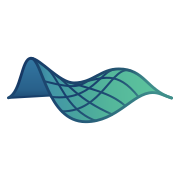
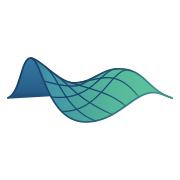
tools: the launcher tiles stop wearing tab-sized strokes
favicon.svg boosts stroke widths so the mark survives 16 px, and the
docstring has always said that boost is "for 16-48 px legibility only".
The raster loop did not read it: all six PNGs came from the boosted
drawing, so the 180 px apple-touch icon and the 192/512 launcher tiles
carried stroke weights meant for a tab favicon — a visibly heavier mark
than the one on every other surface, at the two sizes seen largest.

The size table now names its source per entry. Below the boosted range,
the boosted drawing; above it, the display mark. Three files move, about
3% less ink each; favicon.ico still comes from the boosted 48 px, which
is what it is for.

Verified byte-for-byte that this toolchain reproduces the committed kit
before touching it, so the diff is the three intended tiles and nothing
else.

diff --git a/tools/gen_logo.py b/tools/gen_logo.py
@@ -38,9 +38,12 @@ A's apex (same point, both exactly 0 deg) and its last IS A's tail tip with
 the tied tangent - the strokes genuinely divide and remerge.
 
 One drawing, two optical sizes: favicon.svg boosts stroke widths for 16-48 px
-legibility only. logo-header.svg is the white mono line-art for the docs
-header bar. Requires inkscape (text->path + PNG export; authored with
-Inkscape 1.4.4), Pillow (favicon.ico) and real Arial Bold for the wordmark.
+legibility only, and only the 16/32/48 rasters come from it - the 180 px
+apple-touch icon and the 192/512 launcher tiles rasterize from the display
+mark, or they wear tab-sized stroke weights at tile size.
+logo-header.svg is the white mono line-art for the docs header bar.
+Requires inkscape (text->path + PNG export; authored with Inkscape 1.4.4),
+Pillow (favicon.ico) and real Arial Bold for the wordmark.
 Regenerated assets are byte-stable only on the authoring toolchain; CI never
 regenerates.
 
@@ -630,6 +633,7 @@ def main() -> int:
         (ASSETS / "favicon.svg").write_text(icon_svg(boost=True))
         (ASSETS / "logo-header.svg").write_text(header_svg())
         (wd / "favicon.svg").write_text(icon_svg(boost=True))
+        (wd / "logo.svg").write_text(icon_svg())
 
         fit = fit_wordmark(wd)
         (ASSETS / "logo-wordmark-src.svg").write_text(lockup_svg(fit))
@@ -640,16 +644,21 @@ def main() -> int:
         shutil.copy2(wd / "logo-wordmark.svg", ASSETS / "logo-wordmark.svg")
         shutil.copy2(wd / "logo-wordmark-dark.svg", ASSETS / "logo-wordmark-dark.svg")
 
+        # Two optical sizes, so two sources. The boost is a 16-48 px treatment and the
+        # docstring says so; rasterizing everything from it put stroke widths meant for a
+        # 16 px tab onto a 512 px launcher tile, where the drawing reads as a heavier mark
+        # than the one on every other surface. Above the boosted range the display mark is
+        # the source, which is what makes "for 16-48 px legibility only" true of the code.
         sizes = {
-            "favicon-16.png": 16,
-            "favicon-32.png": 32,
-            "favicon-48.png": 48,
-            "apple-touch-icon.png": 180,
-            "icon-192.png": 192,
-            "icon-512.png": 512,
+            "favicon-16.png": (16, "favicon.svg"),
+            "favicon-32.png": (32, "favicon.svg"),
+            "favicon-48.png": (48, "favicon.svg"),
+            "apple-touch-icon.png": (180, "logo.svg"),
+            "icon-192.png": (192, "logo.svg"),
+            "icon-512.png": (512, "logo.svg"),
         }
-        for name, px in sizes.items():
-            export_png(wd / "favicon.svg", wd / name, px, px)
+        for name, (px, source) in sizes.items():
+            export_png(wd / source, wd / name, px, px)
             shutil.copy2(wd / name, ASSETS / name)
 
         export_png(wd / "logo-wordmark.svg", wd / "logo-wordmark-1200.png", 1200)
